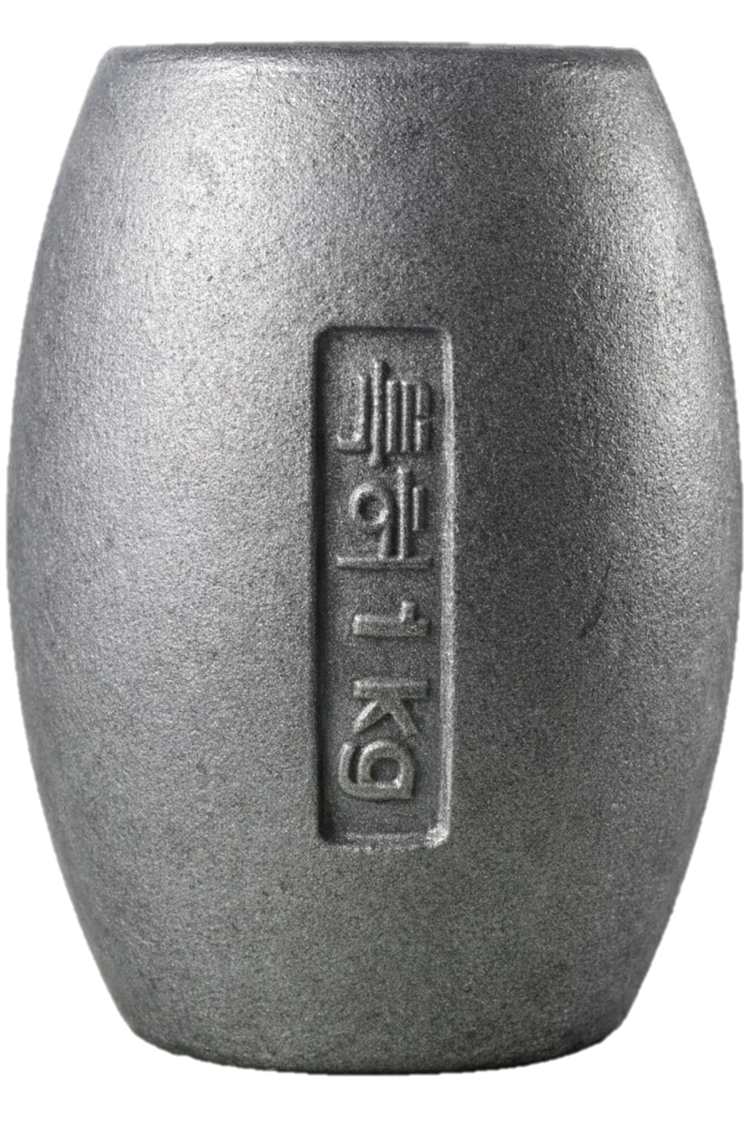
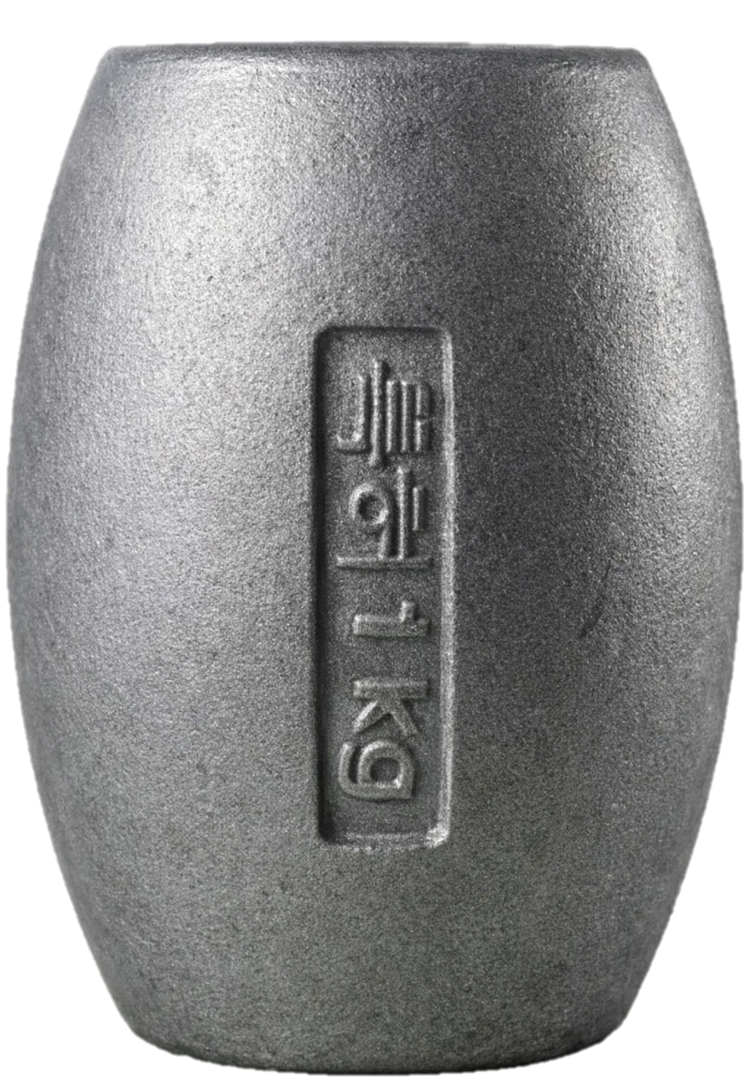
fix: 제품 바닥선 정렬 v3 — 높이만 스케일 + 이미지 원본 복원 (#6)
- 이미지: 소스 원본 복원, 1000g만 하단 투명여백 트림
- CSS: 높이만 scale하고 너비 100% + absolute bottom-0 + object-bottom
  → 제품 실물 바닥이 동일 수평선에 정렬

diff --git a/src/components/sections/products/ProductShowcase.tsx b/src/components/sections/products/ProductShowcase.tsx
@@ -118,7 +118,7 @@ export default function ProductShowcase({ locale }: ProductShowcaseProps) {
                         className="relative w-full overflow-hidden"
                         style={{ aspectRatio: '1/1', background: 'linear-gradient(180deg, #fafbfc 0%, #f0f4f8 100%)' }}
                       >
-                        <div className="absolute bottom-0 left-1/2" style={{ width: `${Math.round(scale * 100)}%`, height: `${Math.round(scale * 100)}%`, transform: 'translateX(-50%)' }}>
+                        <div className="absolute bottom-0 inset-x-0" style={{ height: `${Math.round(scale * 100)}%` }}>
                         <Image
                           src={item.image}
                           alt={item.model}
